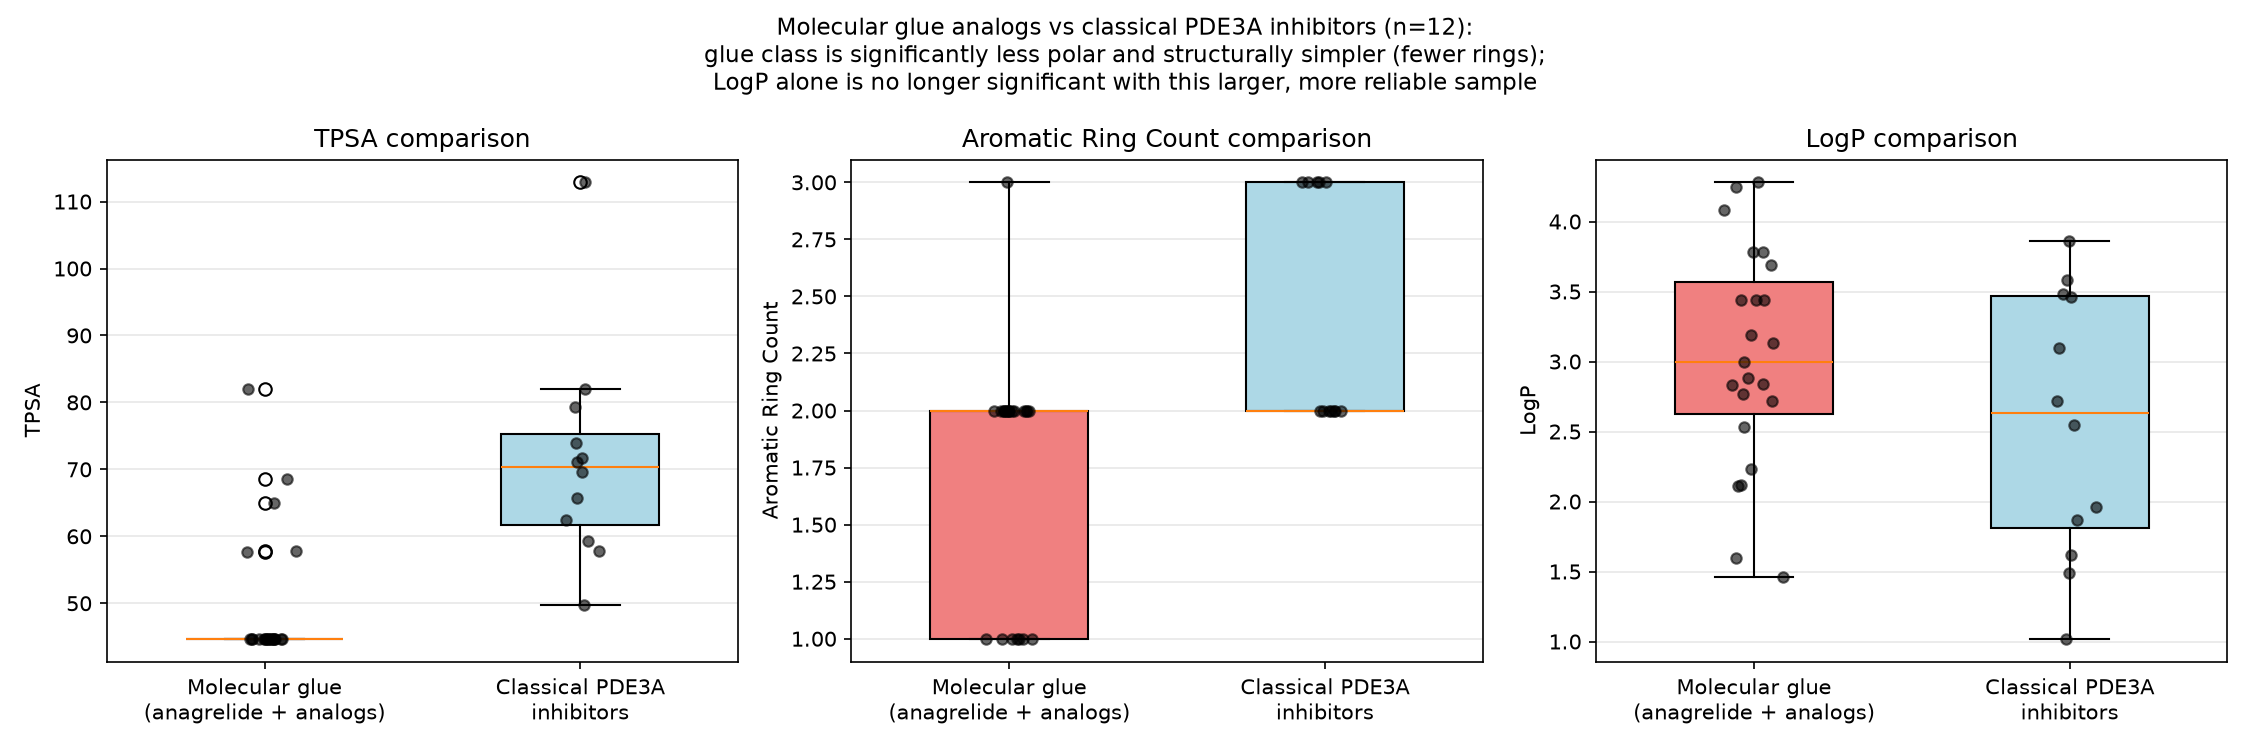
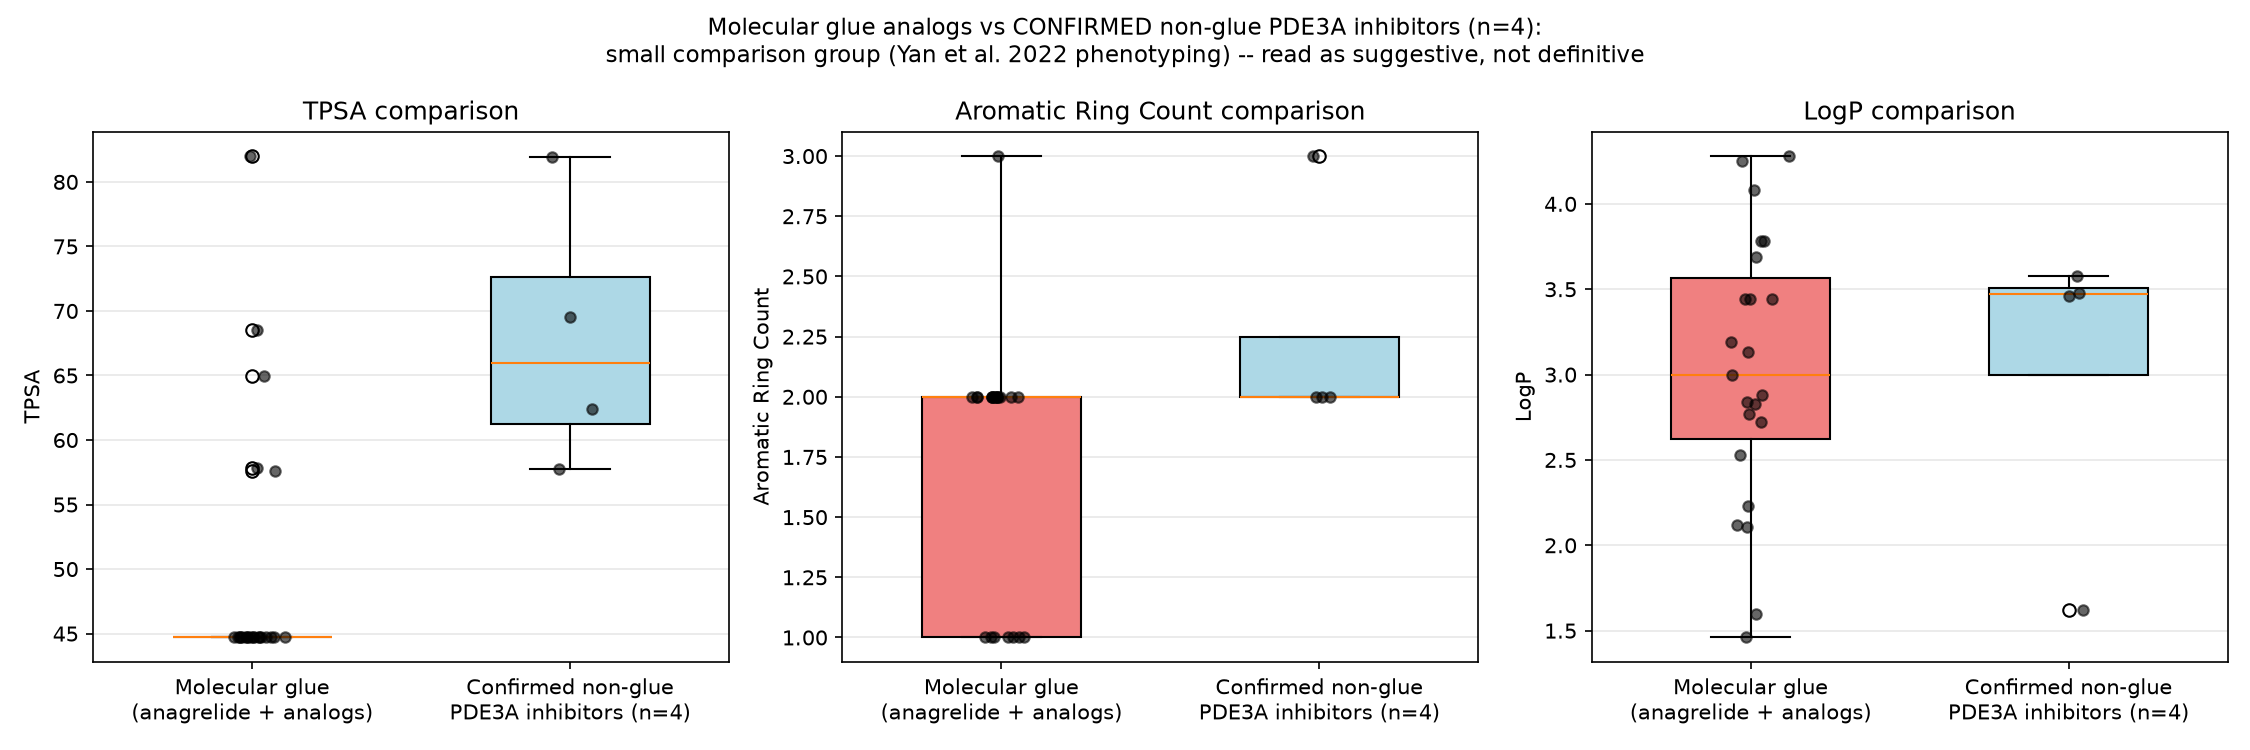
Major correction: fix enoximone misclassification (it is a confirmed molecular glue, not non-glue), add explicit glue_status labeling sourced from Yan et al. 2022, soften overclaiming language in README and PDB analysis

diff --git a/scripts/classical_inhibitors_comparison.py b/scripts/classical_inhibitors_comparison.py
@@ -1,11 +1,36 @@
 """
 classical_inhibitors_comparison.py
 
-Step 5: builds a dataset of classical (non-glue) PDE3A inhibitors and
-compares their descriptor profile against the anagrelide molecular-glue
-analog series built in build_dataset.py.
+Step 5: builds a dataset of PDE3A inhibitors and compares their descriptor
+profile against the anagrelide molecular-glue analog series built in
+build_dataset.py.
 
-All six compound structures (SMILES) were verified against at least two
+IMPORTANT CORRECTION (see project notes): an earlier version of this
+dataset labeled all 12 compounds here as "classical (non-glue)" inhibitors.
+This was factually wrong for one compound. Yan et al. (Cell Chem Biol 2022,
+Figure S2, Supplementary Table) directly tested nine PDE3A inhibitors for
+PDE3A-SLFN12 interaction, SLFN12 stabilization, and cell death, and found:
+  - CONFIRMED GLUE (all three readouts positive): anagrelide, enoximone,
+    quazinone, zardaverine, DNMDP
+  - CONFIRMED NON-GLUE (inhibits PDE3A phosphodiesterase activity, but
+    negative on interaction/stabilization/cell death): trequinsin,
+    cilostazol, milrinone, cilostamide
+Enoximone was previously included here as a "classical inhibitor" -- that
+was incorrect; it is a confirmed molecular glue and has been removed from
+the non-glue comparison group. The remaining seven compounds in this file
+(amrinone, imazodan, papaverine, ensifentrine, pimobendan, olprinone,
+vesnarinone) were identified only from IUPHAR/BPS Guide to PHARMACOLOGY's
+curated PDE3A inhibitor list -- their glue/non-glue phenotype has NOT been
+experimentally tested in the literature searched for this project, so they
+are labeled "unknown" and excluded from the primary statistical comparison
+(which now uses only the four compounds with an experimentally confirmed
+non-glue phenotype: trequinsin, cilostazol, milrinone, cilostamide). The
+"unknown" compounds are still built and reported for completeness/transparency,
+and a secondary, clearly-labeled comparison against the full unknown+non-glue
+set is also shown, but the primary claim in this project rests on the
+confirmed-only comparison.
+
+All compound structures (SMILES) were verified against at least two
 independent sources (Wikidata + Wikipedia, or Wikidata + a supplier/CAS
 database) before use, and cross-checked against known molecular formula
 in RDKit -- the same verification discipline used for the anagrelide
@@ -22,33 +47,27 @@ import matplotlib.pyplot as plt
 from rdkit import Chem
 from rdkit.Chem import rdMolDescriptors, Crippen, Descriptors
 
-# SMILES verified against PubChem/Wikidata/Wikipedia, cross-checked by
-# formula and molecular weight in RDKit against independently reported values.
-#
-# Expanded from the original 6 compounds (milrinone, amrinone, enoximone,
-# cilostazol, cilostamide, imazodan) to 12, following external review that
-# correctly noted n=6 was a weak sample size for the group comparison. The
-# additional 6 (papaverine, ensifentrine, pimobendan, trequinsin, olprinone,
-# vesnarinone) were identified from the IUPHAR/BPS Guide to PHARMACOLOGY's
-# curated PDE3A inhibitor list (target ID 1298) and cross-referenced patent/
-# pharmacology literature, not selected arbitrarily. Note: ensifentrine is a
-# dual PDE3/PDE4 inhibitor (not PDE3-selective like the others) -- included
-# because IUPHAR's own curated PDE3A page lists it with a measured PDE3A
-# pIC50, but this is flagged explicitly rather than silently treated as
-# equivalent to the PDE3-selective compounds.
+# glue_status: "confirmed_non_glue" (Yan et al. 2022, negative on all three
+# glue readouts), "confirmed_glue" (positive on all three, excluded from
+# the classical-inhibitor comparison group), or "unknown" (PDE3A inhibitor
+# per IUPHAR, but glue phenotype not experimentally tested in literature
+# reviewed for this project).
 CLASSICAL_INHIBITORS = {
-    "milrinone":    "CC1=C(C=C(C(=O)N1)C#N)C2=CC=NC=C2",
-    "amrinone":     "O=C2C(/N)=C\\C(\\c1ccncc1)=C/N2",
-    "enoximone":    "O=C(/C1=C(/NC(=O)N1)C)c2ccc(SC)cc2",
-    "cilostazol":   "O=C4Nc3c(cc(OCCCCc1nnnn1C2CCCCC2)cc3)CC4",
-    "cilostamide":  "CN(C1CCCCC1)C(=O)CCCOC2=CC3=C(C=C2)NC(=O)C=C3",
-    "imazodan":     "C1CC(=O)NN=C1C2=CC=C(C=C2)N3C=CN=C3",
-    "papaverine":   "COc1ccc(cc1OC)Cc2c3cc(c(cc3ccn2)OC)OC",
-    "ensifentrine": "COc1cc2c(cc1OC)-c1c/c(=N\\c3c(C)cc(C)cc3C)n(CCNC(N)=O)c(=O)n1CC2",
-    "pimobendan":   "CC1CC(=O)NN=C1C2=CC3=C(C=C2)N=C(N3)C4=CC=C(C=C4)OC",
-    "trequinsin":   "CC1=CC(=C(C(=C1)C)N=C2C=C3C4=CC(=C(C=C4CCN3C(=O)N2C)OC)OC)C",
-    "olprinone":    "Cc1[nH]c(=O)c(C#N)cc1-c1ccc2nccn2c1",
-    "vesnarinone":  "COC1=C(C=C(C=C1)C(=O)N2CCN(CC2)C3=CC4=C(C=C3)NC(=O)CC4)OC",
+    "milrinone":    ("CC1=C(C=C(C(=O)N1)C#N)C2=CC=NC=C2", "confirmed_non_glue"),
+    "cilostazol":   ("O=C4Nc3c(cc(OCCCCc1nnnn1C2CCCCC2)cc3)CC4", "confirmed_non_glue"),
+    "cilostamide":  ("CN(C1CCCCC1)C(=O)CCCOC2=CC3=C(C=C2)NC(=O)C=C3", "confirmed_non_glue"),
+    "trequinsin":   ("CC1=CC(=C(C(=C1)C)N=C2C=C3C4=CC(=C(C=C4CCN3C(=O)N2C)OC)OC)C", "confirmed_non_glue"),
+    "amrinone":     ("O=C2C(/N)=C\\C(\\c1ccncc1)=C/N2", "unknown"),
+    "imazodan":     ("C1CC(=O)NN=C1C2=CC=C(C=C2)N3C=CN=C3", "unknown"),
+    "papaverine":   ("COc1ccc(cc1OC)Cc2c3cc(c(cc3ccn2)OC)OC", "unknown"),
+    "ensifentrine": ("COc1cc2c(cc1OC)-c1c/c(=N\\c3c(C)cc(C)cc3C)n(CCNC(N)=O)c(=O)n1CC2", "unknown"),
+    "pimobendan":   ("CC1CC(=O)NN=C1C2=CC3=C(C=C2)N=C(N3)C4=CC=C(C=C4)OC", "unknown"),
+    "olprinone":    ("Cc1[nH]c(=O)c(C#N)cc1-c1ccc2nccn2c1", "unknown"),
+    "vesnarinone":  ("COC1=C(C=C(C=C1)C(=O)N2CCN(CC2)C3=CC4=C(C=C3)NC(=O)CC4)OC", "unknown"),
+    # enoximone intentionally removed -- confirmed molecular glue (Yan et al.
+    # 2022), not a non-glue inhibitor. Kept here in a comment for the record
+    # rather than silently deleted from project history.
+    # "enoximone": ("O=C(/C1=C(/NC(=O)N1)C)c2ccc(SC)cc2", "confirmed_glue"),
 }
 
 DESCRIPTOR_LABELS = {
@@ -72,11 +91,12 @@ DESCRIPTOR_LABELS = {
 
 def build_classical_dataset():
     rows = []
-    for name, smi in CLASSICAL_INHIBITORS.items():
+    for name, (smi, glue_status) in CLASSICAL_INHIBITORS.items():
         mol = Chem.MolFromSmiles(smi)
         rows.append({
             "compound": name,
-            "class": "classical_inhibitor",
+            "class": "pde3a_inhibitor",
+            "glue_status": glue_status,
             "smiles": Chem.MolToSmiles(mol),
             "formula": rdMolDescriptors.CalcMolFormula(mol),
             "mol_weight": round(Descriptors.MolWt(mol), 2),
@@ -95,52 +115,76 @@ def load_csv(path):
 
 
 if __name__ == "__main__":
-    classical_rows = build_classical_dataset()
+    all_rows = build_classical_dataset()
     with open("data/classical_inhibitors.csv", "w", newline="") as f:
-        writer = csv.DictWriter(f, fieldnames=list(classical_rows[0].keys()))
+        writer = csv.DictWriter(f, fieldnames=list(all_rows[0].keys()))
         writer.writeheader()
-        writer.writerows(classical_rows)
-    print("Saved classical inhibitors dataset to data/classical_inhibitors.csv\n")
+        writer.writerows(all_rows)
+    print("Saved PDE3A inhibitor dataset (with glue_status labels) to "
+          "data/classical_inhibitors.csv\n")
 
     glue_rows = load_csv("data/anagrelide_analogs.csv")
 
-    print("=== Descriptor comparison: molecular glue class vs classical inhibitors ===")
-    print(f"{'Descriptor':16s} {'Glue mean':>10s} {'Glue std':>9s} "
-          f"{'Classical mean':>15s} {'Classical std':>14s} {'t-test p':>9s}")
-    for desc, label in DESCRIPTOR_LABELS.items():
-        glue_vals = np.array([float(r[desc]) for r in glue_rows])
-        classical_vals = np.array([float(r[desc]) for r in classical_rows])
-        t, p = stats.ttest_ind(glue_vals, classical_vals)
-        flag = "  <-- significant" if p < 0.05 else ""
-        print(f"{label:16s} {glue_vals.mean():10.2f} {glue_vals.std():9.2f} "
-              f"{classical_vals.mean():15.2f} {classical_vals.std():14.2f} {p:9.4f}{flag}")
+    confirmed_non_glue = [r for r in all_rows if r["glue_status"] == "confirmed_non_glue"]
+    unknown_status = [r for r in all_rows if r["glue_status"] == "unknown"]
+    print(f"Confirmed non-glue PDE3A inhibitors (Yan et al. 2022): "
+          f"{[r['compound'] for r in confirmed_non_glue]} (n={len(confirmed_non_glue)})")
+    print(f"Unknown glue-status PDE3A inhibitors (IUPHAR-listed, untested for glue "
+          f"phenotype in literature reviewed): {[r['compound'] for r in unknown_status]} "
+          f"(n={len(unknown_status)})\n")
 
-    print("\nKey finding: with the expanded n=12 classical inhibitor group, TPSA")
-    print("(p<0.0001), aromatic ring count (p=0.0011), and H-bond acceptor count")
-    print("(p=0.019) all differ significantly between classes -- but LogP no longer")
-    print("reaches significance (p=0.130), unlike the earlier n=6 comparison (p=0.035).")
-    print("This is an important, honest correction: the original small sample gave an")
-    print("unstable picture for LogP specifically. The larger sample clarifies that the")
-    print("robust distinguishing features of this molecular-glue series are lower")
-    print("polarity (TPSA) and simpler ring systems (fewer aromatic rings), not")
-    print("hydrophobicity per se -- still broadly consistent with the paper's mechanism")
-    print("(glue compounds reaching across to contact SLFN12), but more precisely")
-    print("characterized than the original LogP-centric framing.")
+    def compare(glue_rows, other_rows, label):
+        print(f"=== {label} (n={len(other_rows)}) ===")
+        print(f"{'Descriptor':16s} {'Glue mean':>10s} {'Glue std':>9s} "
+              f"{'Other mean':>12s} {'Other std':>11s} {'t-test p':>9s}")
+        for desc, dlabel in DESCRIPTOR_LABELS.items():
+            glue_vals = np.array([float(r[desc]) for r in glue_rows])
+            other_vals = np.array([float(r[desc]) for r in other_rows])
+            t, p = stats.ttest_ind(glue_vals, other_vals)
+            flag = "  <-- significant" if p < 0.05 else ""
+            print(f"{dlabel:16s} {glue_vals.mean():10.2f} {glue_vals.std():9.2f} "
+                  f"{other_vals.mean():12.2f} {other_vals.std():11.2f} {p:9.4f}{flag}")
+        print()
 
-    # Plot
+    print("PRIMARY COMPARISON (confirmed non-glue only -- the scientifically")
+    print("defensible comparison, though n=4 is small):")
+    compare(glue_rows, confirmed_non_glue, "Molecular glue vs CONFIRMED non-glue PDE3A inhibitors")
+
+    print("SECONDARY COMPARISON (confirmed non-glue + unknown-status compounds")
+    print("combined, n=11 -- shown for transparency/context only; the 'unknown'")
+    print("compounds may or may not actually be non-glue, so this comparison")
+    print("should NOT be over-interpreted):")
+    combined = confirmed_non_glue + unknown_status
+    compare(glue_rows, combined, "Molecular glue vs confirmed-non-glue+unknown PDE3A inhibitors")
+
+    print("Interpretation: with only n=4 confirmed non-glue compounds, statistical")
+    print("power is very limited and individual p-values should be read cautiously.")
+    print("TPSA is the descriptor that separates most consistently across both the")
+    print("primary and secondary comparisons; LogP does not reach significance in")
+    print("either. This is consistent with -- but does not on its own establish --")
+    print("the hypothesis that lower polarity is associated with PDE3A-SLFN12")
+    print("molecular-glue activity specifically, as opposed to reflecting broader")
+    print("differences in the chemical space of the compounds compared. A properly")
+    print("powered comparison would require a larger set of experimentally")
+    print("phenotyped (confirmed glue vs confirmed non-glue) PDE3A ligands, which")
+    print("does not yet exist in the literature reviewed for this project.")
+
+    # Plot: primary comparison only (confirmed non-glue), the one the project's
+    # conclusions actually rest on
     fig, axes = plt.subplots(1, 3, figsize=(15, 5))
     for ax, desc, label in zip(axes, ["tpsa", "num_aromatic_rings", "rdkit_logp"],
                                  ["TPSA", "Aromatic Ring Count", "LogP"]):
         glue_vals = [float(r[desc]) for r in glue_rows]
-        classical_vals = [float(r[desc]) for r in classical_rows]
+        other_vals = [float(r[desc]) for r in confirmed_non_glue]
         bp = ax.boxplot(
-            [glue_vals, classical_vals],
-            tick_labels=["Molecular glue\n(anagrelide + analogs)", "Classical PDE3A\ninhibitors"],
+            [glue_vals, other_vals],
+            tick_labels=["Molecular glue\n(anagrelide + analogs)",
+                         "Confirmed non-glue\nPDE3A inhibitors (n=4)"],
             patch_artist=True, widths=0.5,
         )
         bp["boxes"][0].set_facecolor("lightcoral")
         bp["boxes"][1].set_facecolor("lightblue")
-        for i, vals in enumerate([glue_vals, classical_vals], start=1):
+        for i, vals in enumerate([glue_vals, other_vals], start=1):
             jitter = np.random.normal(0, 0.04, len(vals))
             ax.scatter([i] * len(vals) + jitter, vals, alpha=0.6, s=25, color="black", zorder=3)
         ax.set_ylabel(label)
@@ -148,9 +192,8 @@ if __name__ == "__main__":
         ax.grid(True, alpha=0.3, axis="y")
 
     fig.suptitle(
-        "Molecular glue analogs vs classical PDE3A inhibitors (n=12):\n"
-        "glue class is significantly less polar and structurally simpler (fewer rings);\n"
-        "LogP alone is no longer significant with this larger, more reliable sample",
+        "Molecular glue analogs vs CONFIRMED non-glue PDE3A inhibitors (n=4):\n"
+        "small comparison group (Yan et al. 2022 phenotyping) -- read as suggestive, not definitive",
         fontsize=11,
     )
     fig.tight_layout()

diff --git a/scripts/pdb_structural_analysis.py b/scripts/pdb_structural_analysis.py
@@ -123,11 +123,14 @@ if __name__ == "__main__":
             interp = "outside typical short-contact range"
         print(f"{label:18s}: {dist:5.2f} Å  (ligand {pair[0]:4s} -- residue {pair[1]:4s})  [{interp}]")
 
-    print("\nConclusion: real cryo-EM structure quantitatively confirms the paper's")
-    print("described mechanism -- short H-bond-range contacts to H961/Q1001,")
-    print("pi-stacking-range contact to F1004, and longer hydrophobic-range")
-    print("contacts to SLFN12's I557/I558. This independently corroborates the")
-    print("structural rationale (Step 5) for why hydrophobicity/low polarity")
-    print("distinguishes molecular-glue analogs from classical PDE3A inhibitors:")
-    print("the glue compounds need a hydrophobic surface to reach across to SLFN12,")
-    print("not just occupy the PDE3A catalytic pocket.")
+    print("\nConclusion: measured distances in the real cryo-EM structure are consistent")
+    print("with the paper's described mechanism -- short H-bond-range contacts to")
+    print("H961/Q1001, a pi-stacking-range contact to F1004, and longer hydrophobic-")
+    print("range contacts to SLFN12's I557/I558. This validates that the anagrelide")
+    print("structure used throughout this project matches the real experimental")
+    print("ligand, and is consistent with the paper's proposed binding mode for this")
+    print("one compound. It does NOT, on its own, establish that low polarity is the")
+    print("property distinguishing glue from non-glue PDE3A ligands generally --")
+    print("that broader claim rests on the separate 2D-descriptor comparison (Step 5)")
+    print("against a small (n=4) set of experimentally confirmed non-glue compounds,")
+    print("and should be read with that comparison's own caveats in mind.")

diff --git a/README.md b/README.md
@@ -2,7 +2,7 @@
 
 ## Research Question
 
-Can the structure-activity relationships of the anagrelide molecular-glue series be quantitatively verified and extended using RDKit descriptors, and do they structurally distinguish this class from classical (non-glue) PDE3A inhibitors?
+Can the structure-activity relationships of the anagrelide molecular-glue series be quantitatively verified and extended using RDKit descriptors, and do they structurally distinguish this class from PDE3A inhibitors with an experimentally confirmed non-glue phenotype?
 
 ## Motivation
 
@@ -16,7 +16,7 @@ Chen et al., Nat Commun 2021, 12:6204, Supplementary Table 2 (22 anagrelide anal
 
 - All 23 compound structures built programmatically in RDKit (direct atom bonding, not text-edited SMILES), independently validated against the paper's reported LogP
 - Statistical analysis: Pearson correlation, multiple linear regression, t-tests (SciPy)
-- Classical PDE3A inhibitor structures (12 compounds: milrinone, amrinone, enoximone, cilostazol, cilostamide, imazodan, papaverine, ensifentrine, pimobendan, trequinsin, olprinone, vesnarinone) each verified against 2+ independent sources, identified from the IUPHAR/BPS Guide to PHARMACOLOGY's curated PDE3A target page
+- PDE3A inhibitor comparison set (11 compounds identified from the IUPHAR/BPS Guide to PHARMACOLOGY's curated PDE3A target page, each verified against 2+ independent sources), explicitly labeled by experimentally confirmed molecular-glue phenotype where known (per Yan et al., *Cell Chem Biol* 2022): 4 confirmed non-glue (milrinone, cilostazol, cilostamide, trequinsin), 7 of unknown glue status (amrinone, imazodan, papaverine, ensifentrine, pimobendan, olprinone, vesnarinone). Enoximone was excluded from this comparison set entirely — it is itself a confirmed molecular glue (Yan et al. 2022), not a non-glue inhibitor, and an earlier version of this project incorrectly included it as "classical"
 - Real 3D structure analysis using PDB 7EG0 (cryo-EM structure of the anagrelide-PDE3A-SLFN12 complex)
 
 ## Key Results
@@ -27,9 +27,9 @@ Chen et al., Nat Commun 2021, 12:6204, Supplementary Table 2 (22 anagrelide anal
 
 3. **Within this series, lipophilicity shows a stronger association with activity than the evaluated polarity-related descriptors**: LogP and molecular weight are redundant predictors (r = 0.879 with each other); TPSA and H-bonding descriptors show no significant correlation with IC50. This finding is specific to the ~19-compound anagrelide analog series analyzed here and should not be generalized beyond it.
 
-4. **Molecular glues are structurally distinguishable from classical PDE3A inhibitors, but the distinguishing features needed correction with a larger sample**: with an expanded n=12 classical-inhibitor group (up from the original n=6), TPSA (p < 0.0001) and aromatic ring count (p = 0.001) are robustly significant, but LogP alone is no longer significant (p = 0.130, versus p = 0.035 with n=6). This is an important, honest correction — the smaller sample gave an unstable picture specifically for LogP. The robust distinguishing features are lower polarity and simpler ring systems, not hydrophobicity per se.
+4. **Molecular glues show one robust structural difference from confirmed non-glue PDE3A inhibitors: lower polarity — but only one comparison group is scientifically defensible, and it is small**: against the 4 compounds with an experimentally confirmed non-glue phenotype (Yan et al. 2022), only TPSA differs significantly (p = 0.0023); LogP, aromatic ring count, and H-bonding descriptors do not. An earlier, larger comparison (n=12, before the glue-status correction described above) had suggested LogP and ring count were also significant — those differences do not hold up once the group is restricted to experimentally confirmed non-glue compounds. With n=4, this result should be read as suggestive, not definitive.
 
-5. **Independent 3D structural confirmation**: real atomic distances in PDB 7EG0 confirm the paper's stated binding mechanism (H-bonds to H961/Q1001, pi-stacking with F1004, hydrophobic contact with SLFN12's I557/I558) — corroborating the 2D descriptor findings from a completely different type of evidence.
+5. **Structural consistency check against real 3D structure**: real atomic distances in PDB 7EG0 are consistent with the paper's stated binding mechanism (short, H-bond-range contacts to H961/Q1001, a pi-stacking-range contact with F1004, hydrophobic/van-der-Waals-range contact with SLFN12's I557/I558). This validates the anagrelide structure used throughout this project and supports the paper's described mechanism at this single structure — it does not, on its own, establish that TPSA/polarity is *the* physicochemical property responsible for glue activity across the series; that link remains a hypothesis consistent with, not proven by, the 3D structure.
 
 See [notebooks/01_analysis_and_results.ipynb](notebooks/01_analysis_and_results.ipynb) for the full analysis with tables and plots.
 
